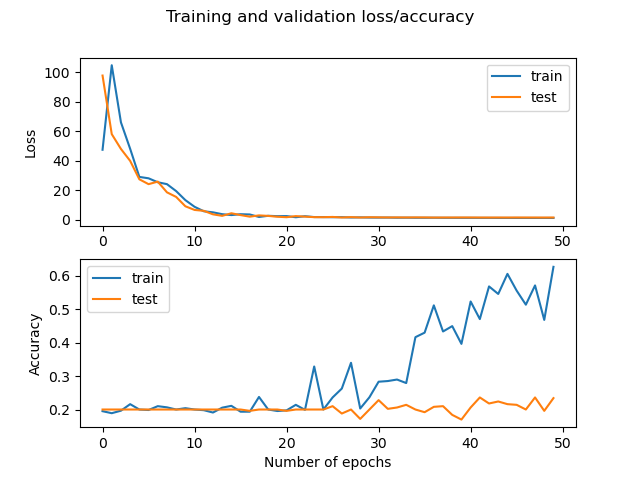
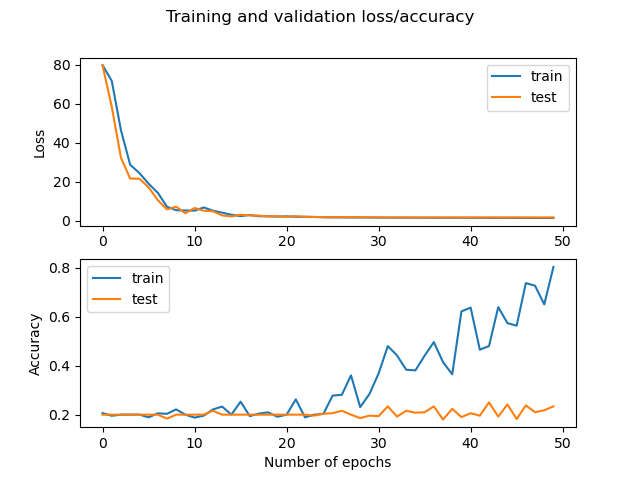
classification predictions

diff --git a/neural_network/classification_problem_hologram.py b/neural_network/classification_problem_hologram.py
@@ -1,5 +1,7 @@
 import time
+import collections
 import numpy as np
+import pandas as pd
 import matplotlib.pyplot as plt
 
 from keras.models import Sequential
@@ -179,6 +181,46 @@ def load_model():
 
     return loaded_model
 
+def predict_results(model, data):
+
+    # Make the predictions
+    predictions = model.predict_classes(data)
+
+    # Number of holograms
+    nb_holograms = data.shape[0]
+
+    # Number of classes 
+    nb_class = 5
+
+    # Number of holograms per class
+    nb_holograms_class = int(nb_holograms / nb_class)
+
+    # Predictions' results per class
+    results_class = np.zeros([nb_class, nb_holograms_class])
+
+    # Auxiliary variables positions
+    init = 0
+    fin = int(nb_holograms / nb_class - 1)
+
+    for i in range(nb_class):
+        results_class[i, :] = predictions[init:(fin+1)]
+        init = fin + 1
+        fin = fin + nb_holograms_class
+
+        # Displat result
+        print('- Predictions for class ' + str(i)) 
+        print(collections.Counter(results_class[i, :]))
+
+def predict(model, train, test):
+
+    print('\n----- Predictions -----')
+
+    print('\n--- Train predictions ---')
+    predict_results(model, train)
+
+    print('\n--- Train predictions ---')
+    predict_results(model, test)
+
 def load_trained_neural_network(x_train, y_train, x_test, y_test):
     '''
     Load and re-compile the trained neural network
@@ -196,6 +238,9 @@ def load_trained_neural_network(x_train, y_train, x_test, y_test):
 
     # Display model results
     show_results(loaded_model, x_train, y_train, x_test, y_test)
+
+    # Display predictions results
+    predict(loaded_model, x_train, x_test)
 
 def main():
 

diff --git a/neural_network/regression_problem_hologram.py b/neural_network/regression_problem_hologram.py
@@ -107,7 +107,7 @@ def neural_network(x_train, y_train, x_test, y_test):
     model.compile(loss='mse', optimizer='adam', metrics=['mse'])
 
     # Parameters to train the model
-    nb_epochs = 20
+    nb_epochs = 50
     nb_batchs = 1000
 
     # 3. Train the model
